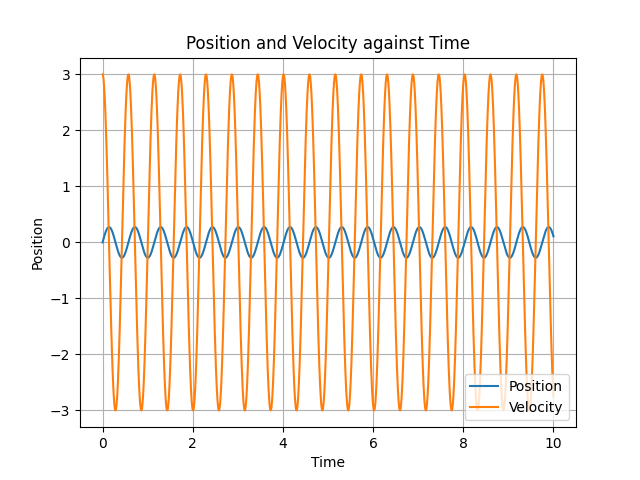
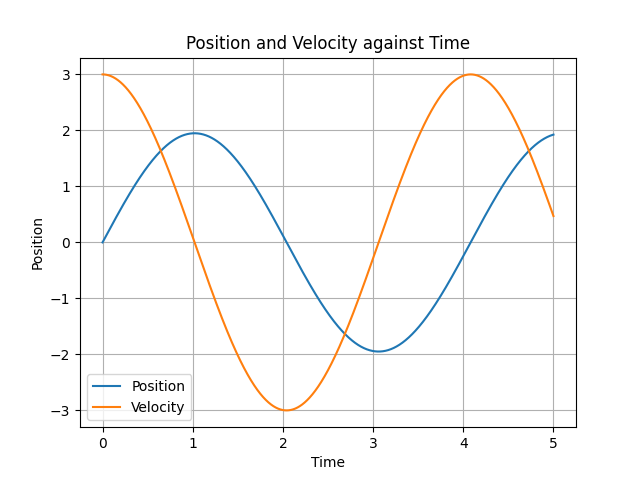
Commit

diff --git a/Moving Mirror RK4.py b/Moving Mirror RK4.py
@@ -1,7 +1,7 @@
 import numpy as np
 import matplotlib.pyplot as plt
 from vpython import *
-scene = canvas(width = 1500, height = 400, background = color.white)
+# scene = canvas(width = 1500, height = 400, background = color.white)
 
 def f(t, S, r, omega):
     """
@@ -22,7 +22,7 @@ def f(t, S, r, omega):
     """
     dSdt = np.zeros_like(S)
     dSdt[0] = S[1]  # x' = y[1]
-    dSdt[1] = -2 * r * S[1] - omega ** 2 * S[0]
+    dSdt[1] = -2 * r * S[1] - (omega ** 2) * S[0]
     return dSdt
 
 def explicit_RK4(f, t0, tf, y0, r, omega, h):
@@ -52,7 +52,6 @@ def explicit_RK4(f, t0, tf, y0, r, omega, h):
     for i in range(num_steps):
         t = t_values[i]
         x = x_values[i]
-        print(x)
 
         k1 = h * f(t, x, r, omega)
         k2 = h * f(t + 0.5 * h, x + 0.5 * k1, r, omega)
@@ -72,8 +71,8 @@ omega = (k / m) ** 0.5
 x0 = float(input("Initial position:"))
 v0 = float(input("Initial velocity:"))
 t0 = 0.0  
-tf = 10.0 
-h = 0.0001 
+tf = 5.0
+h = 0.00001 
 S0 = np.array([x0, v0])
 
 # Solve the differential equation using RK4
@@ -84,13 +83,26 @@ def update_mirror(mirror, sol):
     mirror.pos = vector(sol[:, 0][-1], 0, 0)
 
 # Create the mirror object
-mirror = box(pos = vector(S0[0], 0, 0), size = vector(0.01, 0.5, 0.3), color = color.blue)
+# mirror = box(pos = vector(S0[0], 0, 0), size = vector(0.01, 0.5, 0.3), color = color.blue)
 
 fps = int(1 / h)
 
+# Apply FFT
+n = len(t_values)  # Number of samples
+fhat = np.fft.fft(sol[:, 0], n)  # Compute the FFT
+psd = fhat * np.conj(fhat) / n  # Power spectral density
+freq = (1 / (0.00001 * n)) * np.arange(n)  # Frequency array
+L = np.arange(1, np.floor(n / 2), dtype = 'int')  # Only use the first half of the FFT output
+
+# Find the peak in the frequency domain
+peak_idx = np.argmax(psd[L])  # Index of the peak
+peak_freq = freq[L][peak_idx]  # Frequency of the peak
+peak_power = psd[L][peak_idx]  # Power at the peak
+print("Peak frequency:", peak_freq)
+
 # Plot the solution
-plt.plot(t_values[:10 * fps], sol[:10 * fps, 0], label='Position')
-plt.plot(t_values[:10 * fps], sol[:10 * fps, 1], label='Velocity')
+plt.plot(t_values[:10 * fps], sol[:10 * fps, 0], label = 'Position')
+plt.plot(t_values[:10 * fps], sol[:10 * fps, 1], label = 'Velocity')
 plt.xlabel('Time')
 plt.ylabel('Position')
 plt.title('Position and Velocity against Time')
@@ -99,7 +111,7 @@ plt.grid(True)
 plt.savefig('moving_mirror_rk4.png')  # Save the plot to an image file
 
 # Animate the motion of the mirror
-for i in range(len(t_values)):
-    #scene.autoscale = False
-    rate(fps)  # Limit the frame rate to 100 frames per second
-    update_mirror(mirror, sol[:i + 1])
+# for i in range(len(t_values)):
+    # scene.autoscale = False
+    # rate(fps)  # Limit the frame rate to 100 frames per second
+    # update_mirror(mirror, sol[:i + 1])

diff --git a/Moving Mirror RK45 with Cubic Spline.py b/Moving Mirror RK45 with Cubic Spline.py
@@ -29,7 +29,7 @@ def f(t, S):
     """
     dSdt = np.zeros_like(S)  # Initialize derivative vector
     dSdt[0] = S[1]  # Derivative of position is velocity
-    dSdt[1] = - F(t) / m - 2 * r * S[1] - omega ** 2 * S[0]  # Derivative of velocity (Newton's second law)
+    dSdt[1] = - F(t) / m - 2 * r * S[1] - (omega ** 2) * S[0]  # Derivative of velocity (Newton's second law)
     return dSdt  # Return the derivatives
 
 def RK45(f, t0, tf, S0, h):
@@ -204,6 +204,7 @@ L = np.arange(1, np.floor(n / 2), dtype = 'int')  # Only use the first half of t
 peak_idx = np.argmax(psd[L])  # Index of the peak
 peak_freq = freq[L][peak_idx]  # Frequency of the peak
 peak_power = psd[L][peak_idx]  # Power at the peak
+print("Peak frequency:", peak_freq)
 
 # Plotting the results
 plt.figure(figsize = (10, 8))  # Create a figure
@@ -226,7 +227,6 @@ plt.grid(True)  # Show grid
 
 plt.subplot(5, 1, 5)  # Create a subplot for the FFT
 plt.plot(freq[L], psd[L])  # Plot the power spectrum
-plt.text(peak_freq, peak_power, f'({peak_freq:.01f}, {peak_power:.01f})', color = 'black', ha = "right")  # Annotate the peak
 plt.xlabel('Frequency (Hz)')  # X-axis label
 plt.ylabel('Power')  # Y-axis label
 plt.title('Frequency Domain Signal')  # Plot title
